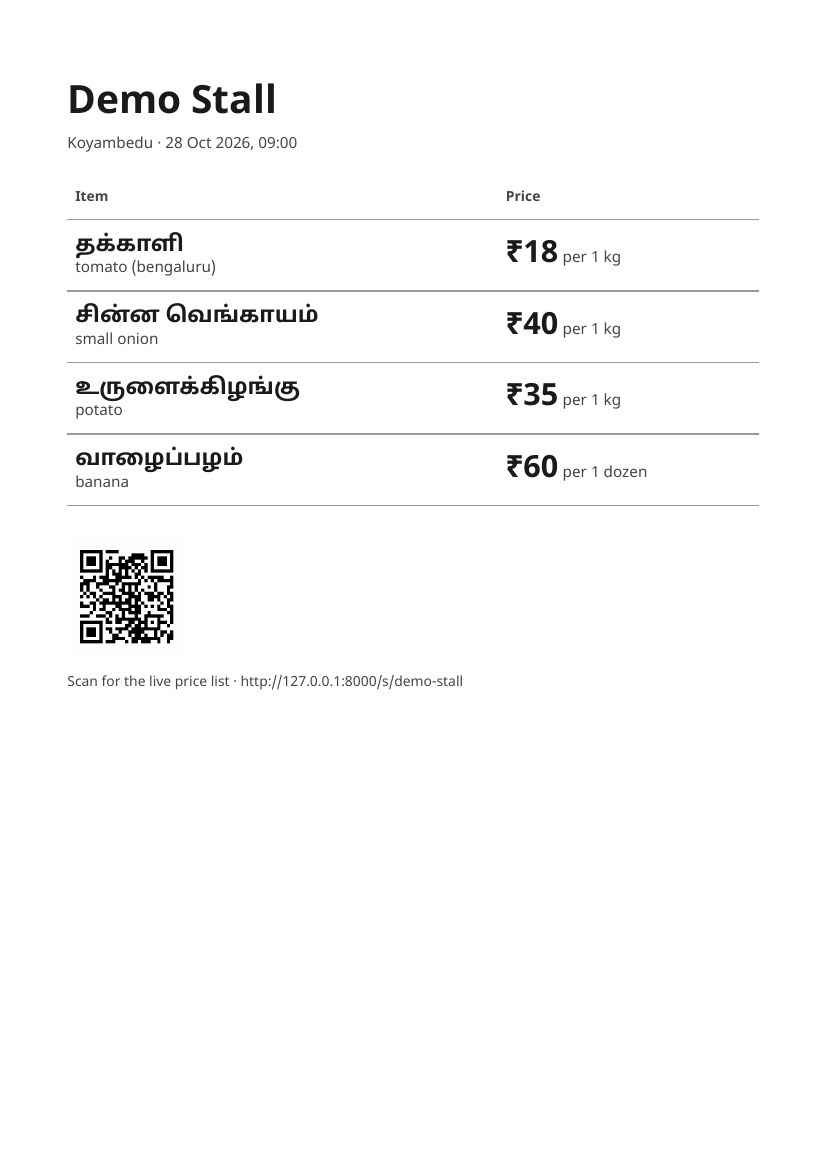
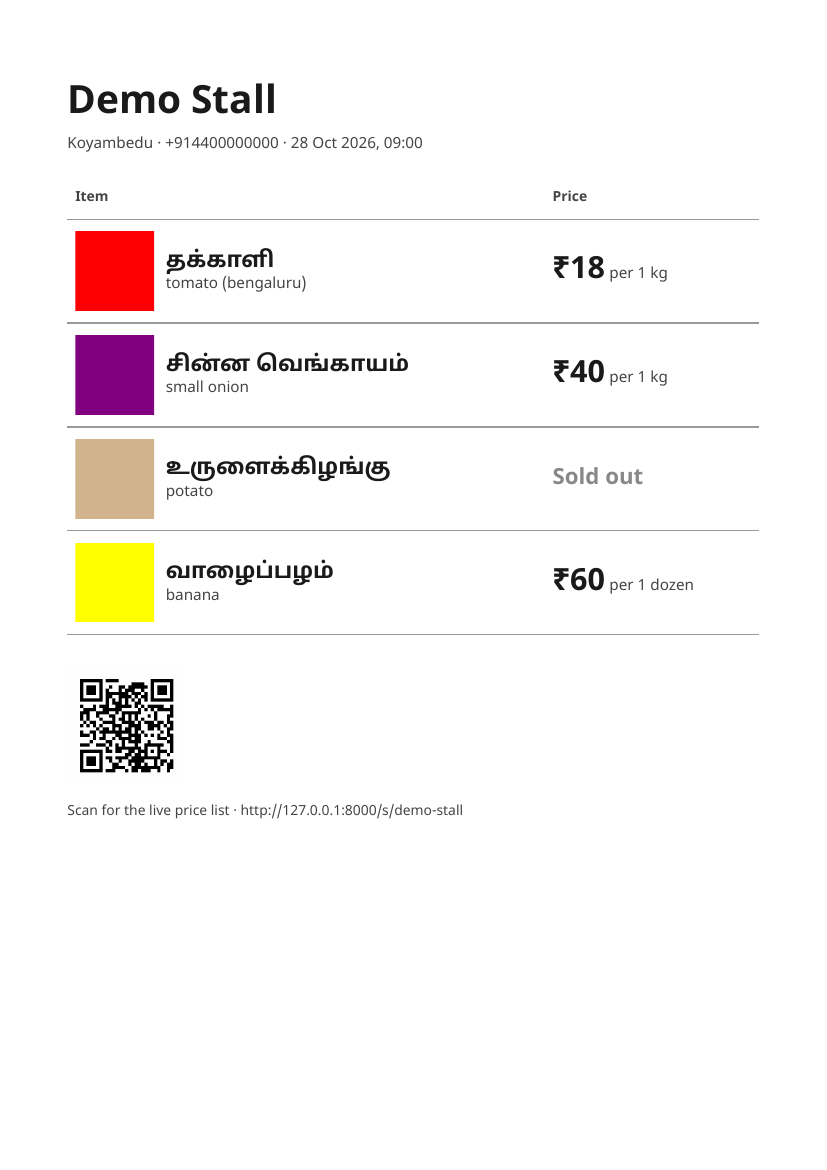
fix: board photos, phone, sold out
Built-with: Muse Code

diff --git a/app/web/templates/board.html b/app/web/templates/board.html
@@ -22,21 +22,24 @@ th, td { border-bottom: 1pt solid #999; padding: 3mm 2mm; text-align: left; }
 th { font-size: 10pt; color: #444; }
 .name-ta { font-size: 16pt; font-weight: bold; }
 .name-en { font-size: 11pt; color: #444; }
+.thumb { width: 20mm; height: 20mm; margin-right: 3mm; vertical-align: middle; }
+.item-cell { display: inline-block; vertical-align: middle; }
 .price { font-size: 22pt; font-weight: bold; white-space: nowrap; }
 .per { font-size: 11pt; color: #444; }
+.soldout { font-size: 16pt; font-weight: bold; color: #888; }
 .footer { margin-top: 8mm; font-size: 10pt; color: #444; }
 .footer img { width: 30mm; }
 </style>
 </head>
 <body>
 <h1>{{ shop["name"] }}</h1>
-<p class="shop-meta">{{ shop["area"] }} · {{ at }}</p>
+<p class="shop-meta">{{ shop["area"] }} · {{ shop["phone"] }} · {{ at }}</p>
 <table>
 <tr><th>Item</th><th>Price</th></tr>
 {% for row in rows %}
 <tr>
-  <td><div class="name-ta">{{ row.name_ta }}</div><div class="name-en">{{ row.name_en }}{% if row.variety %} ({{ row.variety }}){% endif %}</div></td>
-  <td><span class="price">₹{{ row.price }}</span> <span class="per">per {{ row.per }}</span></td>
+  <td>{% if row.photo %}<img class="thumb" src="{{ row.photo }}" alt="">{% endif %}<div class="item-cell"><div class="name-ta">{{ row.name_ta }}</div><div class="name-en">{{ row.name_en }}{% if row.variety %} ({{ row.variety }}){% endif %}</div></div></td>
+  <td>{% if row.sold_out %}<span class="soldout">Sold out</span>{% else %}<span class="price">₹{{ row.price }}</span> <span class="per">per {{ row.per }}</span>{% endif %}</td>
 </tr>
 {% endfor %}
 </table>

diff --git a/tests/test_outputs.py b/tests/test_outputs.py
@@ -28,13 +28,21 @@ def pl(price, per_amount, unit, said=""):
 
 
 def item(name_en="tomato", name_ta="தக்காளி", variety=None, qty=None,
-         qty_unit=None, lines=()):
+         qty_unit=None, lines=(), photo=None, sold_out=False):
     return Item(
         id=1, version_id=1, name_ta=name_ta, name_en=name_en, variety=variety,
         qty=Decimal(qty) if qty is not None else None, qty_unit=qty_unit,
-        photo=None, sold_out=False, price_lines=list(lines),
+        photo=photo, sold_out=sold_out, price_lines=list(lines),
         proof=Proof(quote="", turn_ids=[], start_ms=0, end_ms=0),
     )
+
+
+def photo_jpeg(tmp_path, name="photo.jpg"):
+    from PIL import Image
+
+    path = tmp_path / name
+    Image.new("RGB", (24, 24), "red").save(path, "JPEG")
+    return str(path)
 
 
 def demo_shop_row():
@@ -123,6 +131,54 @@ def test_pdf_plain_price_figures():
         "http://127.0.0.1:8000/s/demo-stall",
     )
     assert "₹60" in pypdf_text(pdf)
+
+
+def page_images(pdf: bytes) -> list:
+    from pypdf import PdfReader
+
+    return list(PdfReader(io.BytesIO(pdf)).pages[0].images)
+
+
+def test_board_embeds_photo_thumbnail(tmp_path):
+    goods = [item(lines=[pl(18, 1, "kg")], photo=photo_jpeg(tmp_path))]
+    pdf = price_board_pdf(
+        demo_shop_row(), goods,
+        datetime(2026, 10, 28, 9, 0, tzinfo=IST),
+        "http://127.0.0.1:8000/s/demo-stall",
+    )
+    assert len(page_images(pdf)) == 2
+    plain = price_board_pdf(
+        demo_shop_row(), [item(lines=[pl(18, 1, "kg")])],
+        datetime(2026, 10, 28, 9, 0, tzinfo=IST),
+        "http://127.0.0.1:8000/s/demo-stall",
+    )
+    assert len(page_images(plain)) == 1
+
+
+def test_board_header_shows_phone():
+    pdf = price_board_pdf(
+        demo_shop_row(), [item(lines=[pl(18, 1, "kg")])],
+        datetime(2026, 10, 28, 9, 0, tzinfo=IST),
+        "http://127.0.0.1:8000/s/demo-stall",
+    )
+    assert "+914400000000" in pypdf_text(pdf)
+
+
+def test_board_sold_out_hides_price():
+    pdf = price_board_pdf(
+        demo_shop_row(),
+        [item(lines=[pl(18, 1, "kg")], sold_out=True)],
+        datetime(2026, 10, 28, 9, 0, tzinfo=IST),
+        "http://127.0.0.1:8000/s/demo-stall",
+    )
+    text = pypdf_text(pdf)
+    assert "Sold out" in text
+    assert "₹18" not in text
+
+
+def test_value_skips_sold_out():
+    goods = [item(qty=40, qty_unit="kg", lines=[pl(18, 1, "kg")], sold_out=True)]
+    assert stock_value(goods) == (0, [])
 
 
 def seed_version(tmp_path):

diff --git a/app/outputs/pdf.py b/app/outputs/pdf.py
@@ -20,9 +20,31 @@ def _plain(value) -> str:
     return format(value.normalize(), "f")
 
 
+_PHOTO_MIME = {".jpg": "image/jpeg", ".jpeg": "image/jpeg", ".png": "image/png"}
+
+
+def _photo_data_uri(path) -> str | None:
+    """Embed the SAM cut-out thumbnail; None when the item has no photo."""
+    if not path:
+        return None
+    file = Path(path)
+    if not file.is_file():
+        return None
+    mime = _PHOTO_MIME.get(file.suffix.lower(), "image/jpeg")
+    return f"data:{mime};base64," + base64.b64encode(file.read_bytes()).decode()
+
+
 def _rows(items: list[Item]) -> list[dict]:
     rows = []
     for item in items:
+        photo = _photo_data_uri(item.photo)
+        if item.sold_out:
+            rows.append({
+                "name_ta": item.name_ta, "name_en": item.name_en,
+                "variety": item.variety, "photo": photo, "sold_out": True,
+                "price": "", "per": "",
+            })
+            continue
         for line in item.price_lines:
             if line.price is None:
                 continue
@@ -31,6 +53,8 @@ def _rows(items: list[Item]) -> list[dict]:
                 "name_ta": item.name_ta,
                 "name_en": item.name_en,
                 "variety": item.variety,
+                "photo": photo,
+                "sold_out": False,
                 "price": _plain(line.price),
                 "per": f"{amount} {line.unit or ''}".strip(),
             })

diff --git a/app/outputs/value.py b/app/outputs/value.py
@@ -12,6 +12,8 @@ def stock_value(items: list[Item]) -> tuple[Decimal, list[str]]:
     total = Decimal(0)
     left_out: list[str] = []
     for item in items:
+        if item.sold_out:
+            continue
         if item.qty is None or item.qty_unit is None:
             left_out.append(item.name_en)
             continue
